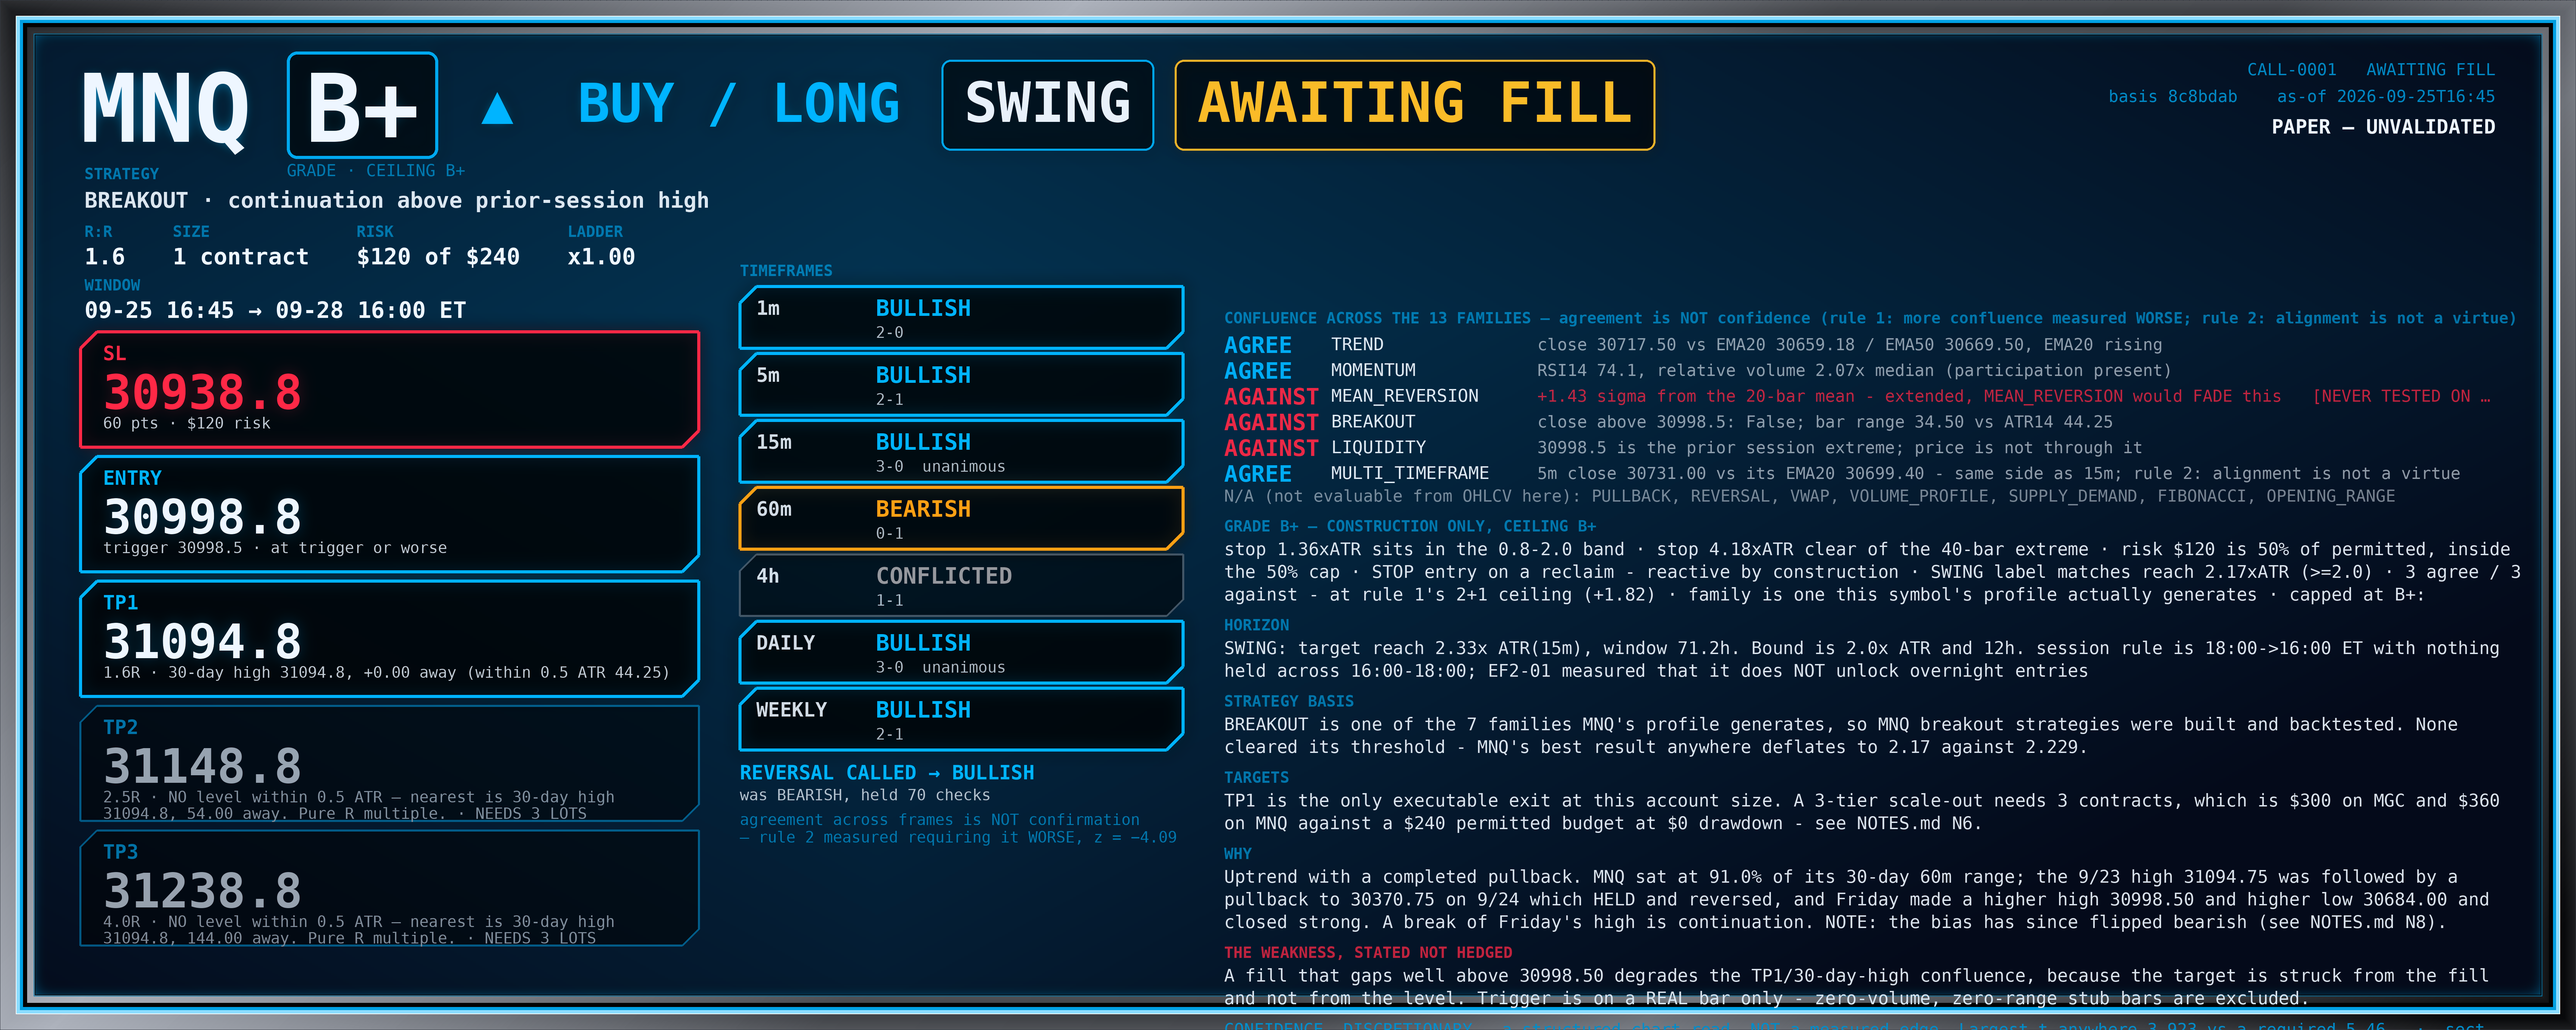
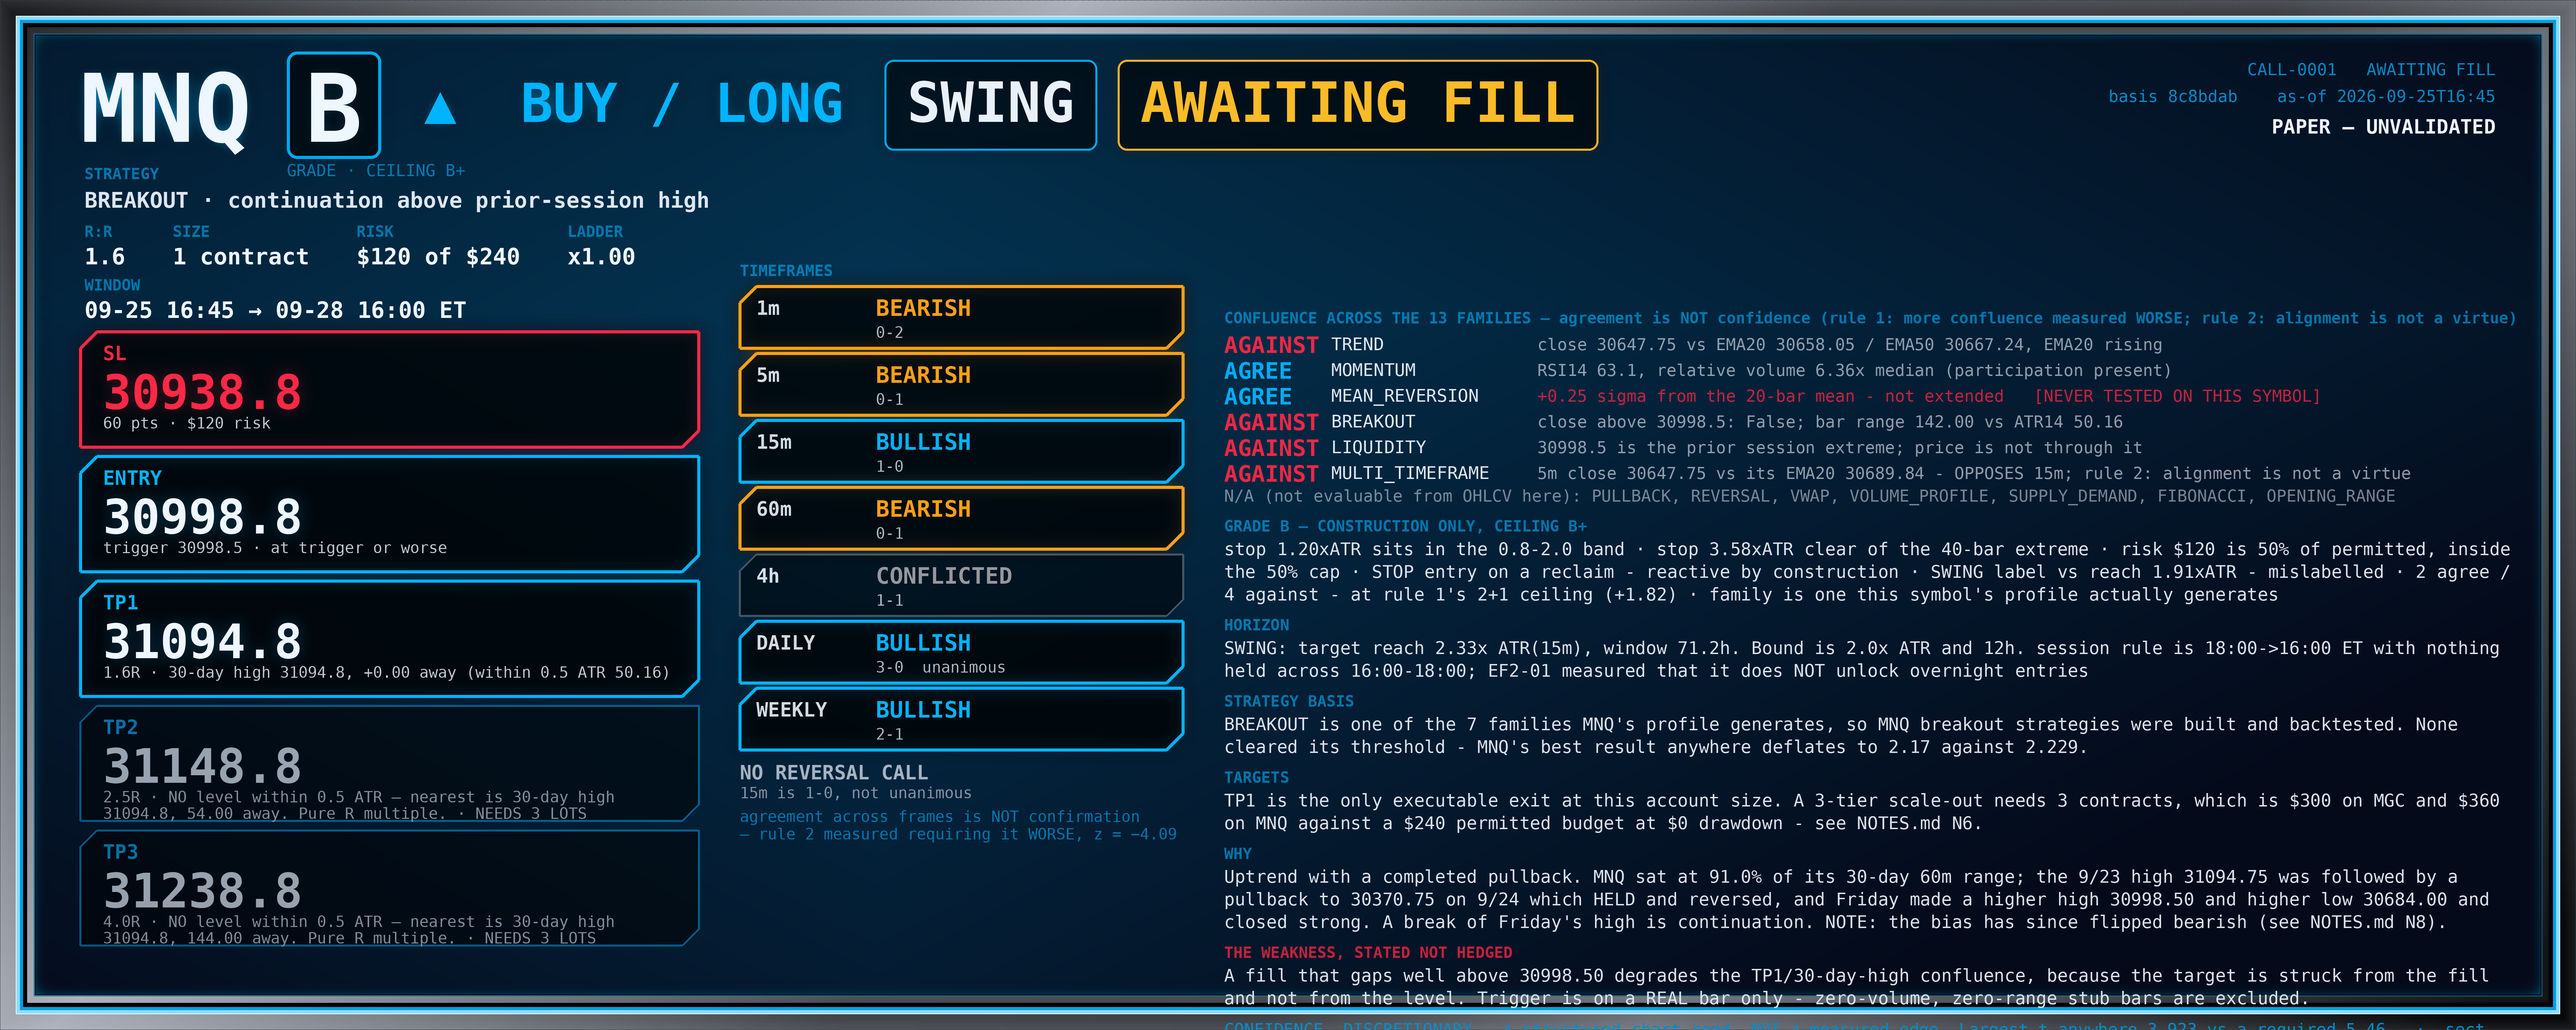
CALL desk: CALL-0002 CLOSED WIN +$156.56 (+1.566R) - EXCLUDED as declared six times. And the MNQ reversal has LAPSED, 45.50 underwater.
N174: resolve.py wrote "CALL-0002 TP1 hit @ 4170.4 (1 lot) bar 09:30 net $+156.56" and "CLOSED
CALL-0002 WIN TARGET TP1 net $+156.56 (+1.566R)"; open 0, closed 1, equity $50,156.56. Exactly as
N172 predicted at 09:43, on the bar and at the minute predicted. Net is $156.56 rather than $160.00
because costs were charged, so R is +1.566.

state.json now reads 1 closed trade, 1 win, 100% win rate, +1.566R, equity $50,156.56. The desk's
MEASURED record is unchanged: 0 countable closed trades, win rate undefined, payoff undefined,
expectancy undefined at n=0, measured drawdown $0.00. The exclusion was declared at +$38 and
restated at +$95, at $0.00 flat, at +$45, at +$103 and at certainty; it now applies to the realised
number, the only place it was ever going to matter. A SHORT specified at 4289.10 filled at 4186.40 -
102.70 away - because the created_bar_ts was future-dated and off-grid, leaving it blind for the six
hours in which MGC fell from 4289 to 4172. The +$156.56 is the size of that defect. The correct
action was to retire the plan at N30 and I did not.

N175: the REVERSAL HAS LAPSED - "no reversal call - 15m is 1-0, not unanimous". MNQ's 15m went from
BULLISH 3-0 unanimous to 1-0, with trend MIXED and location MIXED at 50.3% from 81.4%; structure is
the only component still BULL. The call held 66+ checks.

Honest accounting: I called REVERSAL BULLISH at 08:19 with MNQ's 15m close at 30693.25. It is now
[…]

diff --git a/workspace/paper/CALL/NOTES.md b/workspace/paper/CALL/NOTES.md
@@ -6179,3 +6179,70 @@ within about fifteen minutes of each other.**
 MGC: location **5.8%** of [4172.60, 4233.20] region, every frame bearish, 15m and 60m both 0-3 unanimous, trend
 BEAR, structure BEAR. No new call. 1 open (excluded, about to close), 2 pending; equity $50,000.00, drawdown
 $0.00.
+
+## N174 — CALL-0002 CLOSED: WIN, +$156.56, +1.566R. Equity $50,156.56. EXCLUDED, exactly as declared six times
+
+    CALL-0002 TP1 hit @ 4170.4 (1 lot) bar 2026-09-28T09:30:00-04:00 net $+156.56
+    CLOSED CALL-0002 WIN TARGET TP1 net $+156.56 (+1.566R)
+    open 0  closed 1  equity $50,156.56  drawdown $0.00
+
+Exactly as N172 predicted at 09:43, on the bar it predicted, resolved at the minute it predicted. The net is
+$156.56 rather than the arithmetic $160.00 because costs were charged — so the R is **+1.566**, not +1.600.
+
+**`state.json` now reads 1 closed trade, 1 win, 100% win rate, +1.566R, equity $50,156.56. The desk's measured
+record is unchanged: 0 countable closed trades, win rate undefined, payoff undefined, expectancy undefined at
+n = 0, measured drawdown $0.00.** The exclusion was declared at +$38 and restated at +$95, at $0.00 flat, at
++$45, at +$103 and at certainty. It is now applied to the realised number, which is the only place it was ever
+going to matter.
+
+For the avoidance of any doubt about what was excluded and why: a SHORT specified at **4289.10** filled at
+**4186.40** — 102.70 points away — because the plan's `created_bar_ts` was future-dated and off the 15m grid,
+leaving it blind for the six hours in which MGC actually fell from 4289 to 4172. The +$156.56 is the size of
+that defect. **The correct action was to retire the plan at N30 and I did not, which is my error and is on the
+record with the profit it produced.**
+
+## N175 — THE REVERSAL HAS LAPSED, and the call is now underwater on its own terms
+
+`reversal('MNQ')` no longer fires: **`no reversal call - 15m is 1-0, not unanimous`.** MNQ's 15m has gone from
+BULLISH 3-0 unanimous to **BULLISH 1-0** — trend **MIXED** (30647.75 < EMA20 30656.31 while the EMA still rises)
+and location **MIXED at 50.3%** of [30535.00, 30759.25], down from 81.4%. Structure is the only component still
+BULL. The call held **66+ consecutive checks** and has ended.
+
+**The honest accounting of that call, stated plainly.** I called REVERSAL BULLISH at 08:19 with MNQ's 15m close at
+**30693.25**. It is now **30647.75**. **The call is 45.50 points underwater on its own terms.** In between it ran
+to 30759.25 — 66.00 points in favour — so the sequence is: right for an hour, then wrong.
+
+MNQ's `09:30` 15m bar is the reason: `h 30759.25 l 30617.25 c 30647.75`, a **142.00-point range** and **3.01x the
+47.20 ATR**, the largest bar of the session on either symbol by a wide margin. That is the RTH open, and it went
+the other way.
+
+**CALL-0005's thesis tracking has flipped to `DIRECTION WRONG`** — fav 56.25, adv 85.75 against an 83.82 target
+distance. So the plan I could not fill is now one I would not have wanted filled. **That is the first time all
+night the unreachable-entry failure mode has been to my benefit**, and it deserves the same scepticism as the
+excluded win: it is luck, not process. N149's 0-for-3 stands; what changes is that the third one would have lost.
+
+## N176 — and CALL-0005 can still fill, on a REVISION, within the measured revision range
+
+This is live and precise. CALL-0005's fill window is bars with `ts <= 09:30`, and the `09:30` 15m bar **is in
+window**:
+
+    09:30 15m bar:  h 30759.25  l 30617.25  c 30647.75
+    limit 30595.88  ->  21.37 BELOW the bar's low, so not touched
+    expiry needs a bar with ts > 09:30  ->  none yet; the 09:45 bar lands ~10:01
+
+The bar completed at 09:45 and will keep revising until roughly 10:00 (N89: median +12.3m, 90th +14.2m after
+completion). **MNQ's largest non-session-open 15m low revision is 27.25 points (N70), and the limit is 21.37
+below the current low. A revision large enough to fill this plan is INSIDE the measured range.**
+
+So the plan's fate now rests on whether an already-completed bar restates its low by 21.37 points — and per N140
+that would not be a price move at all. **If it fills that way I will say so explicitly**: the entry would be
+awarded by a data restatement rather than by the market trading there, which is a different object from a real
+fill and the journal will record which one it was. Stating that now, before the resolution, for the same reason
+N155 was declared before its outcome.
+
+MGC: CALL-0002 is closed, so MGC has nothing live. Every frame bearish, 15m and 60m 0-3 unanimous, trend BEAR
+(4179.90 < EMA20 4185.68, falling), structure BEAR, location 17.9% of [**4168.30**, 4233.20] — a new session low
+at 4168.30 on the 5m `09:35` bar.
+
+Ledger: **0 open, 1 closed (excluded), 2 pending. `state.json` equity $50,156.56, drawdown $0.00. Measured equity
+$50,000.00, measured drawdown $0.00, measured closed trades 0.**

diff --git a/workspace/paper/CALL/LEDGER.md b/workspace/paper/CALL/LEDGER.md
@@ -5,43 +5,37 @@ has a measured edge (largest *t* 3.923 against `free_t` 5.46), so this ledger is
 record of a *process*, not evidence of one. It is generated by `resolve.py`;
 do not hand-edit it.
 
-**Regenerated:** 2026-09-28T12:48:04+00:00 · **basis:** 113d290
+**Regenerated:** 2026-09-28T13:47:47+00:00 · **basis:** d958890
 
 ## Account
 
 | | |
 |---|---|
 | starting equity | $50,000.00 |
-| equity | $50,000.00 |
-| peak equity | $50,000.00 |
+| equity | $50,156.56 |
+| peak equity | $50,156.56 |
 | **drawdown** | **$0.00** |
 | distance to the $2,800 absorbing state | $2,800.00 |
-| realized P&L | $+0.00 |
+| realized P&L | $+156.56 |
 
 ## Record
 
 | | |
 |---|---|
-| closed trades | 0 |
-| wins | 0 |
+| closed trades | 1 |
+| wins | 1 |
 | losses | 0 |
-| win rate | 0.0% |
-| gross won | $+0.00 |
+| win rate | 100.0% |
+| gross won | $+156.56 |
 | gross lost | $+0.00 |
-| avg win | $+0.00 |
+| avg win | $+156.56 |
 | avg loss | $+0.00 |
-| expectancy | +0.000R |
+| expectancy | +1.566R |
 | ambiguous-bar resolutions (counted as losses) | 0 |
 
 **Rule 3 of this desk: win rate and payoff are never quoted apart.** BRIEF.md rule 3
 measured four times that moving a stop raises payoff ~89% and drops win rate ~14
 points for no expectancy gain, so either number alone is misleading.
-
-## Open positions
-
-| id | symbol | side | entry | stop | next target | lots | risk $ |
-|---|---|---|---|---|---|---|---|
-| CALL-0002 | MGC | SHORT | 4186.4 | 4196.4 | 4170.4 (TP1) | 1/1 | $100.00 |
 
 ## Pre-registered, awaiting trigger
 
@@ -53,3 +47,12 @@ hypothesis against 5.46 for a searched population).
 |---|---|---|---|---|---|---|---|
 | CALL-0001 | MNQ | LONG | 30998.5 | 60.0 | TP1 1.6R | 1 | 2026-09-28T16:00:00-04:00 |
 | CALL-0005 | MNQ | LONG | 30595.88 | 55.88 | TP1 1.5R | 1 | 2026-09-28T09:30:00-04:00 |
+
+## Closed trades
+
+| id | symbol | side | entry | stop | exit | reason | targets hit | net $ | R | result |
+|---|---|---|---|---|---|---|---|---|---|---|
+| CALL-0002 | MGC | SHORT | 4186.4 | 4196.4 | 4170.4 | TARGET TP1 | TP1 | $+156.56 | +1.566 | **WIN** |
+
+⚠ = one bar held both the stop and the target; OHLC cannot order them, so it
+resolved as a loss (rule 3 of `resolve.py`).
